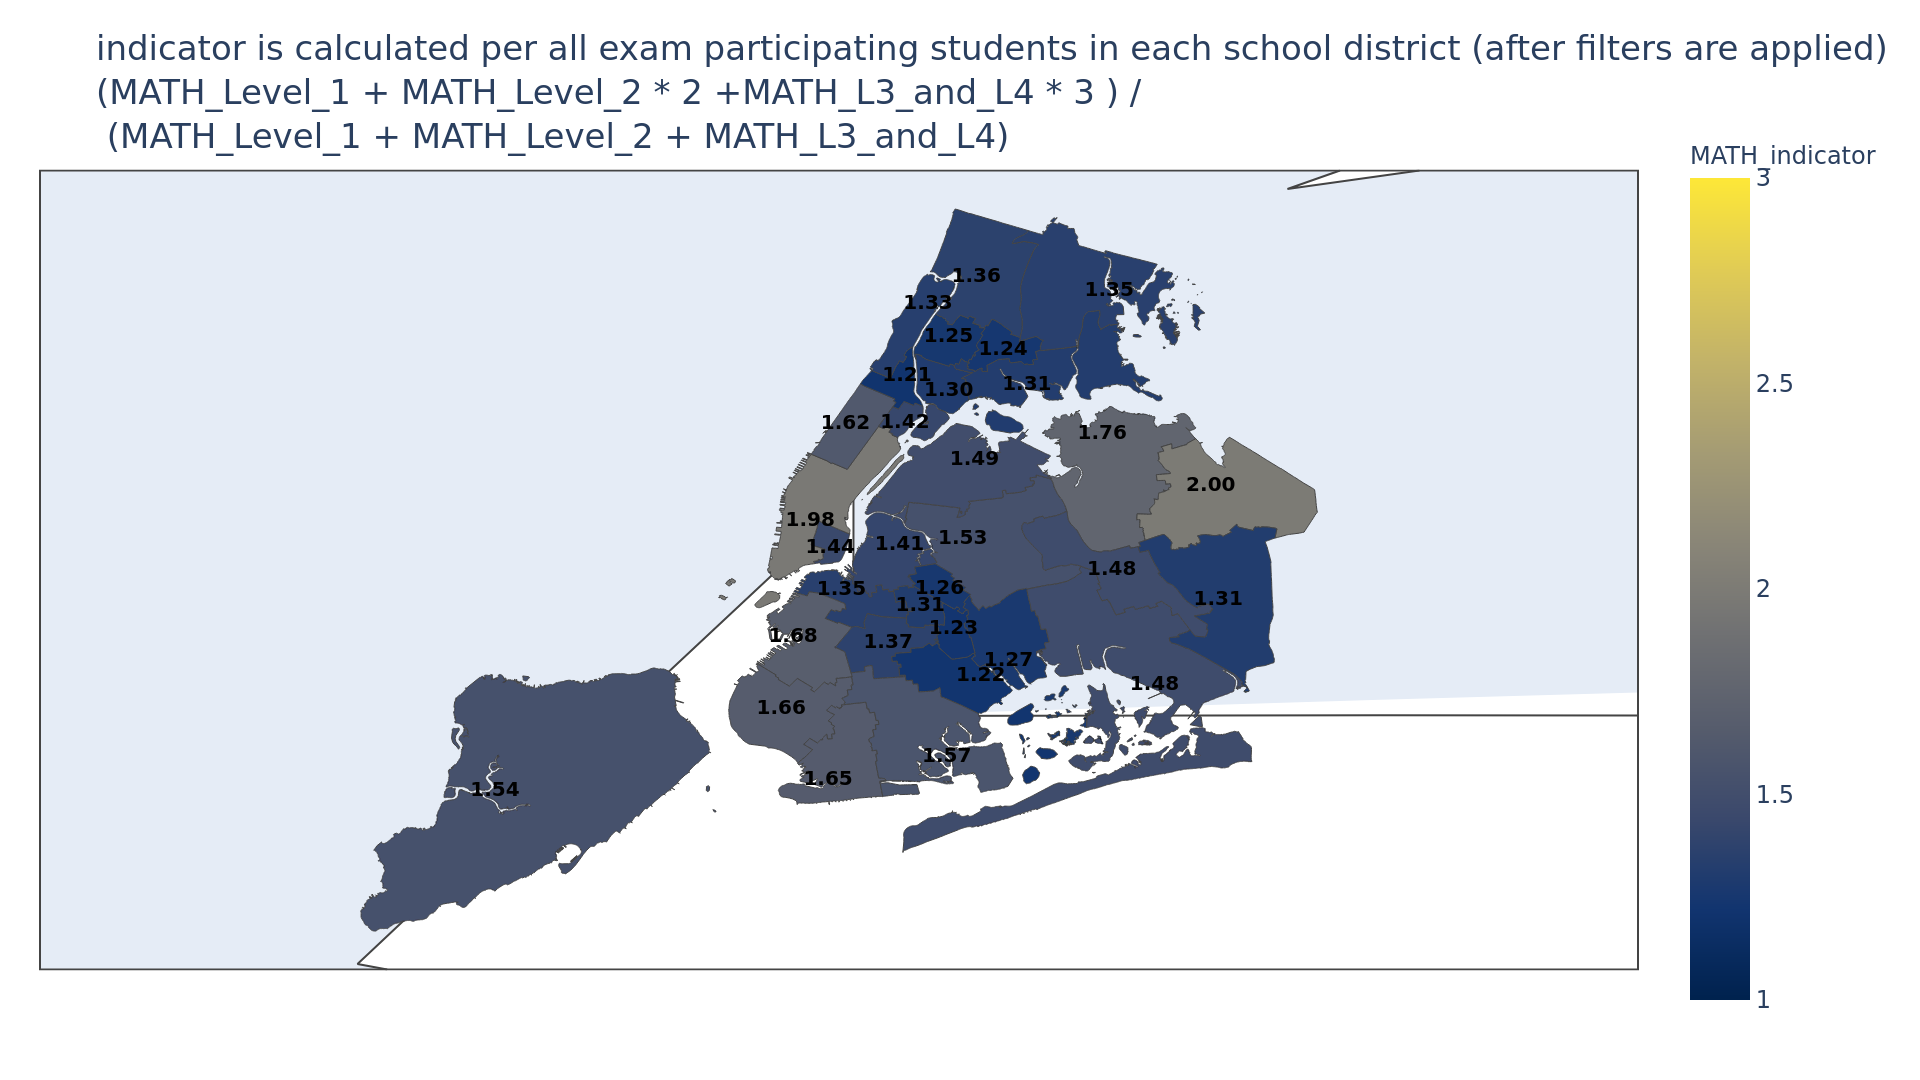
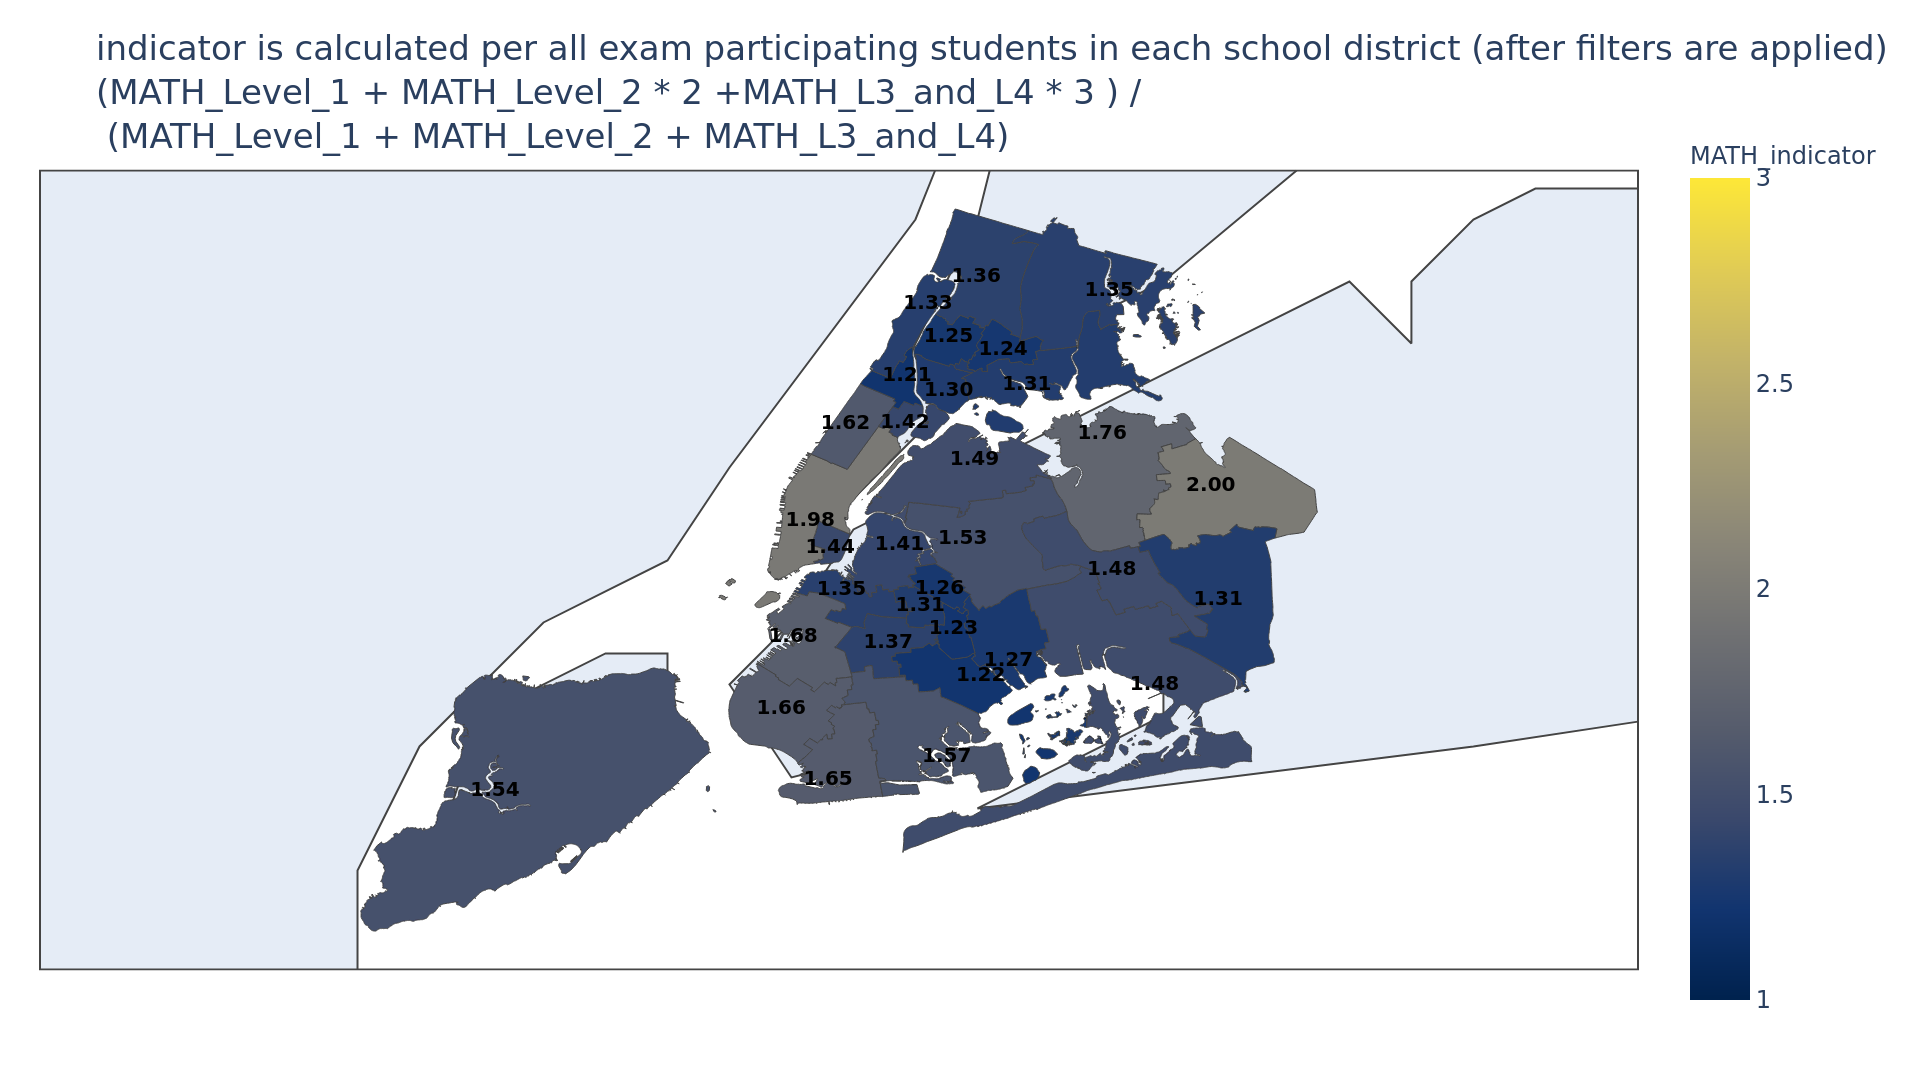
Increase map resolution on chart

diff --git a/sql_app/celery_tasks.py b/sql_app/celery_tasks.py
@@ -79,11 +79,11 @@ def save_chart(filters_dict,id):
                                 range_color=[1.0,3.0],
                                 )
 
-        fig.update_geos(fitbounds='locations')  # zoom on NYC
+        fig.update_geos(fitbounds='geojson', resolution=50)  # zoom on NYC, increased resolution of map
 
         fig['layout'].update(margin=dict(l=20,r=30,b=30,t=60))
         fig.update_traces(marker_line_width=0.5)
-
+        
 
         fig.add_scattergeo(
         geojson=nycmap,
